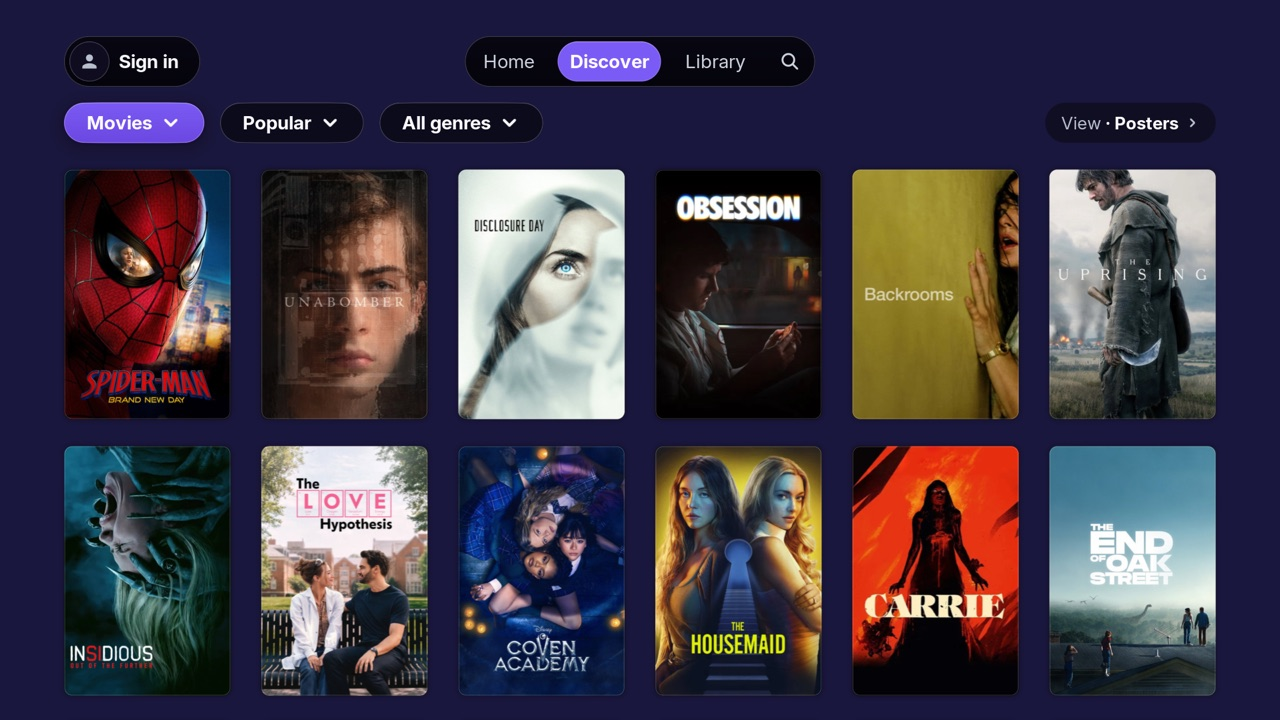
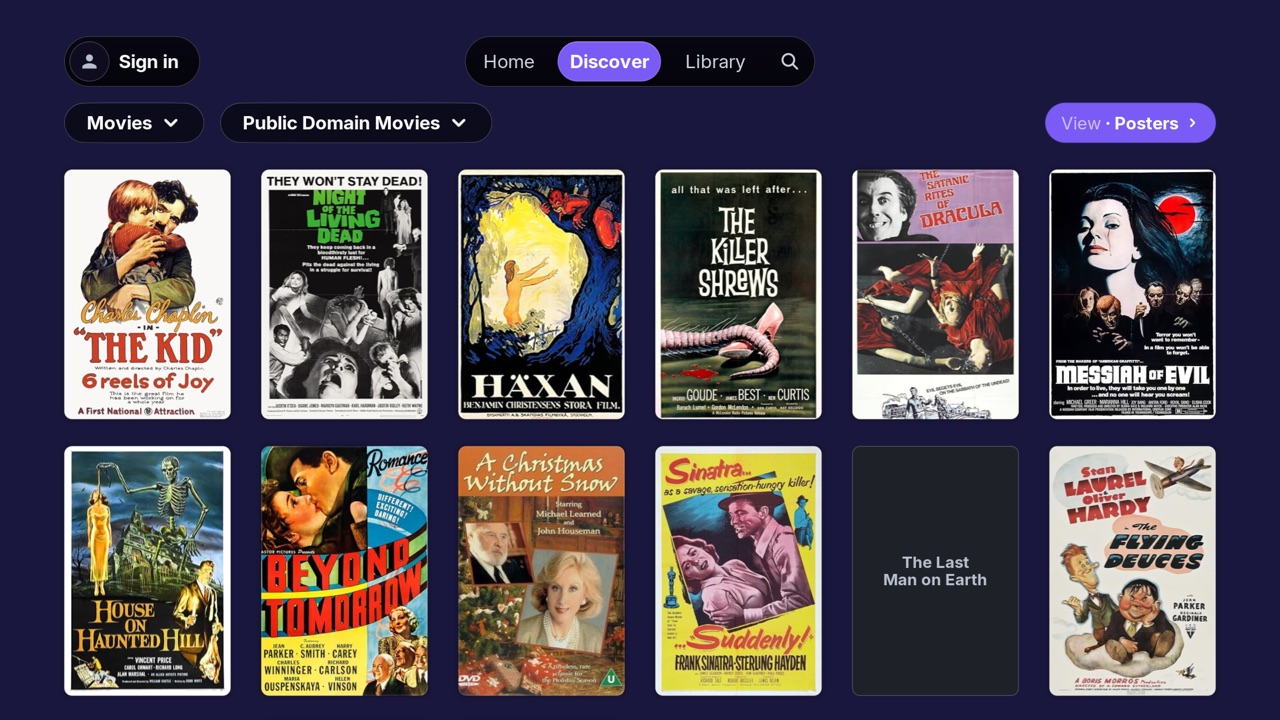
Screenshots from the Public Domain Movies addon (player, home, movie, discover, list); a nameless catalog takes its addon's name; ipk-verify gates CI (4.4.2-11.2.0 pass)

diff --git a/site/index.html b/site/index.html
@@ -21,6 +21,7 @@
   h2 { font-size: 20px; margin: 48px 0 14px; }
   .shots { display: grid; grid-template-columns: repeat(2, 1fr); gap: 12px; margin-top: 32px; }
   .shots img { width: 100%; border-radius: 10px; display: block; border: 1px solid var(--line); }
+  .shots img.wide { grid-column: 1 / -1; }
   ol { padding-left: 22px; margin: 0; }
   ol li { margin: 6px 0; }
   .url { display: flex; gap: 8px; margin: 10px 0 4px; }
@@ -50,10 +51,11 @@
   </header>
 
   <div class="shots">
+    <img class="wide" src="screenshots/player.jpg" alt="The player">
     <img src="screenshots/home.jpg" alt="Home">
-    <img src="screenshots/series.jpg" alt="A series and its episodes">
+    <img src="screenshots/movie.jpg" alt="A movie's page">
     <img src="screenshots/discover.jpg" alt="Discover">
-    <img src="screenshots/settings.jpg" alt="Settings">
+    <img src="screenshots/list.jpg" alt="Discover as a list">
   </div>
 
   <h2>Install with Homebrew Channel</h2>

diff --git a/crates/stremio/src/manifest.rs b/crates/stremio/src/manifest.rs
@@ -168,7 +168,20 @@ impl Catalog {
 
 impl Manifest {
     pub fn parse(body: &[u8]) -> Result<Manifest, String> {
-        serde_json::from_slice(body).map_err(|e| e.to_string())
+        serde_json::from_slice::<Manifest>(body).map(Manifest::named_catalogs).map_err(|e| e.to_string())
+    }
+
+    /// A catalog the addon gave no `name` is called by the addon's own name, not by its id
+    /// ("publicdomainmovies" read as a row title). Idempotent.
+    pub fn named_catalogs(mut self) -> Manifest {
+        if !self.name.trim().is_empty() {
+            for c in &mut self.catalogs {
+                if c.name.as_deref().is_none_or(|n| n.trim().is_empty()) {
+                    c.name = Some(self.name.clone());
+                }
+            }
+        }
+        self
     }
 
     /// Does this addon answer `resource` for an item of `kind` with `id`?
@@ -206,7 +219,7 @@ pub struct Addon {
 impl Addon {
     /// `transport_url` is what a user installs: `https://host/[config/]manifest.json`.
     pub fn new(transport_url: &str, manifest: Manifest) -> Addon {
-        Addon { base: base_of(transport_url), manifest }
+        Addon { base: base_of(transport_url), manifest: manifest.named_catalogs() }
     }
 }
 
@@ -294,4 +307,11 @@ mod tests {
         assert_eq!(base_of("https://a.example/cfg=abc/manifest.json"), "https://a.example/cfg=abc");
         assert_eq!(base_of("https://a.example/"), "https://a.example");
     }
+    #[test]
+    fn a_catalog_without_a_name_is_called_by_its_addon() {
+        let m = Manifest::parse(br#"{"id":"pd","name":"Public Domain Movies","catalogs":[{"type":"movie","id":"publicdomainmovies"},{"type":"movie","id":"top","name":"Top"}]}"#).unwrap();
+        assert_eq!(m.catalogs[0].display_name(), "Public Domain Movies");
+        assert_eq!(m.catalogs[1].display_name(), "Top");
+    }
+
 }

diff --git a/crates/app/src/app/boot.rs b/crates/app/src/app/boot.rs
@@ -146,10 +146,11 @@ pub unsafe fn construct(mt: MainThread) -> Result<App, c_int> {
     log("boot: Home requested");
     // A debug build armed with `/tmp/stremionative-playurl` opens the player on that stream.
     #[cfg(feature = "devtriggers")]
-    match sn_media::player::playurl::playurl().map(|p| p.and_then(|p| p.to_start().map_err(|e| format!("{e:?}")))) {
-        Some(Ok(start)) => {
+    match sn_media::player::playurl::playurl().map(|p| p.and_then(|p| p.to_start().map(|s| (s, p.title)).map_err(|e| format!("{e:?}")))) {
+        Some(Ok((start, title))) => {
             bridge.playback.start_dev(start);
-            let arg = sn_screens::registry::PlayerArg { title: "playurl".into(), item: None, addon: String::new(), resumed_ms: 0 };
+            let title = if title.is_empty() { "playurl".to_string() } else { title };
+            let arg = sn_screens::registry::PlayerArg { title, item: None, addon: String::new(), resumed_ms: 0 };
             pages.request(sn_machine::machine::MachineId::Nav, sn_machine::machine::NavOp::Push(AppArg::Player(arg)));
             log("boot: playurl trigger — player opened");
         }

diff --git a/crates/app/src/app/devcmd.rs b/crates/app/src/app/devcmd.rs
@@ -75,11 +75,12 @@ pub fn poll(app: &mut App, tick: Tick) -> Vec<InputEvent<u32>> {
 }
 
 fn play(app: &mut App) {
-    match sn_media::player::playurl::playurl().map(|p| p.and_then(|p| p.to_start().map_err(|e| format!("{e:?}")))) {
-        Some(Ok(start)) => {
+    match sn_media::player::playurl::playurl().map(|p| p.and_then(|p| p.to_start().map(|s| (s, p.title)).map_err(|e| format!("{e:?}")))) {
+        Some(Ok((start, title))) => {
             app.bridge.playback.start_dev(start);
             if !bridge::player_on_top(&app.pages) {
-                let arg = sn_screens::registry::PlayerArg { title: "playurl".into(), item: None, addon: String::new(), resumed_ms: 0 };
+                let title = if title.is_empty() { "playurl".to_string() } else { title };
+                let arg = sn_screens::registry::PlayerArg { title, item: None, addon: String::new(), resumed_ms: 0 };
                 app.pages.request(MachineId::Nav, NavOp::Push(sn_screens::registry::AppArg::Player(arg)));
             }
             log("memcmd: play");

diff --git a/crates/media/src/player/playurl.rs b/crates/media/src/player/playurl.rs
@@ -37,6 +37,9 @@ pub struct PlayUrl {
     /// `http(s)://…`.
     #[serde(default)]
     pub url: String,
+    /// The player's title; empty reads "playurl".
+    #[serde(default)]
+    pub title: String,
     /// The Load payload's video codec, FFmpeg's spelling: `"h264"` or empty, `"hevc"`, `"av1"`,
     /// `"vp9"`, `"vp8"` (the last three only on a set whose table lists that decoder).
     #[serde(default)]

diff --git a/README.md b/README.md
@@ -10,11 +10,13 @@ TV's hardware decoders instead of the web runtime. Developed and tested on an LG
 Not affiliated with Stremio.
 
 <p align="center">
+  <img src="docs/screenshots/player.jpg" width="98%" alt="The player">
   <img src="docs/screenshots/home.jpg" width="49%" alt="Home">
-  <img src="docs/screenshots/series.jpg" width="49%" alt="A series with its episodes">
+  <img src="docs/screenshots/movie.jpg" width="49%" alt="A movie's page">
   <img src="docs/screenshots/discover.jpg" width="49%" alt="Discover">
-  <img src="docs/screenshots/settings.jpg" width="49%" alt="Settings">
+  <img src="docs/screenshots/list.jpg" width="49%" alt="Discover as a list">
 </p>
+<p align="center"><sub>Screenshots use the Public Domain Movies addon and a generated test video.</sub></p>
 
 ## Install
 
@@ -41,14 +43,14 @@ The packages (ipk + sha256) are on the [download page](https://morpheus235.githu
 | | Status |
 | --- | --- |
 | LG C1, webOS 6 (rooted) | Developed and tested on it daily |
-| Other LG TVs, webOS 4.5 – 5 and 7+ | Expected to work, untested on a TV. CI checks each package against webosbrew's firmware symbol data. |
+| Other LG TVs, webOS 4.4 – 11 | The package passes `webosbrew-ipk-verify` for every release from 4.4.2 to 11.2.0, checked in CI against webosbrew's firmware data (static, so a strong hint, not proof). Not yet tested on such a TV. |
 | Developer Mode (unrooted) | Supported by the code, untested. Some older chip families need root for video. |
 | Build hosts | macOS (arm64, x86_64) and Linux aarch64, where the webOS NDK is published |
 
 **CI** ([`.github/workflows`](.github/workflows)):
 - `ci.yml` runs on every push and pull request. It runs the host tests, the shipping feature set,
   the packaging selftests and an ARM compile check, then does a full package build on an arm64
-  runner and reports `webosbrew-ipk-verify` on it.
+  runner and checks it with `webosbrew-ipk-verify` (it fails on an incompatibility).
 - `release.yml` runs on a `v*` tag. It builds, tests and publishes the release.
 - `hbrepo.yml` publishes the Homebrew Channel repository and the download page on GitHub Pages.
 
